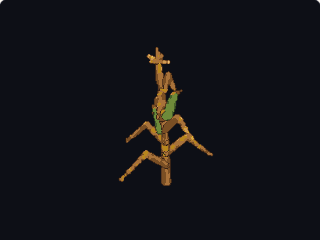
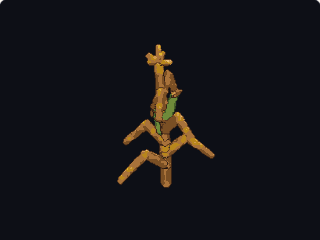
Cornucopia: wheat, corn leaves and tassels thick enough to hold together at Chunky detail
Claude-Session: https://claude.ai/code/session_018HstUiijLL6cWAsYPFyYF3

Changed region(s): [[0.3438, 0.175, 0.6875, 0.7875]]

diff --git a/src/blobscape/props/cornucopia.ts b/src/blobscape/props/cornucopia.ts
@@ -180,15 +180,15 @@ export const CORNUCOPIA: PropDoc = made('Cornucopia', [-0.5, 0, -0.12], 1.1, [
   { shape: { kind: 'sweep', path: loopAt(add(hornAt(4), [0, 0, 0]), 0.3, 12), r: 0.024 }, paint: '#7a4f24', noShadow: true },
   // wheat and corn standing up out of the top of the mouth
   {
-    shape: { kind: 'join', shapes: [[0.42, 1.2, -0.32], [0.55, 1.28, -0.15], [0.6, 1.25, 0.03], [0.5, 1.18, 0.16], [0.68, 1.1, -0.3]].map(([x, y, z]) => ({ kind: 'cone', from: [-0.02, 0.5, -0.12], to: [x, y, z], r: 0.026, rTo: 0.02 })) },
+    shape: { kind: 'join', shapes: [[0.42, 1.2, -0.32], [0.55, 1.28, -0.15], [0.6, 1.25, 0.03], [0.5, 1.18, 0.16], [0.68, 1.1, -0.3]].map(([x, y, z]) => ({ kind: 'cone', from: [-0.02, 0.5, -0.12], to: [x, y, z], r: 0.036, rTo: 0.03 })) },
     paint: '#e0b430', noShadow: true,
   },
   {
-    shape: { kind: 'join', shapes: [[0.42, 1.2, -0.32], [0.55, 1.28, -0.15], [0.6, 1.25, 0.03], [0.5, 1.18, 0.16], [0.68, 1.1, -0.3]].map(([x, y, z]) => ({ kind: 'ball', at: [x + 0.03, y + 0.05, z], r: [0.04, 0.07, 0.035] })) },
+    shape: { kind: 'join', shapes: [[0.42, 1.2, -0.32], [0.55, 1.28, -0.15], [0.6, 1.25, 0.03], [0.5, 1.18, 0.16], [0.68, 1.1, -0.3]].map(([x, y, z]) => ({ kind: 'ball', at: [x + 0.02, y + 0.05, z], r: [0.05, 0.08, 0.045] })) },
     paint: { kind: 'speckle', size: 0.02, colors: ['#e0b430', '#f6dc6a', '#b8861c'] }, noShadow: true,
   },
   { shape: { kind: 'cone', from: [0.08, 0.42, 0.08], to: [0.55, 0.9, 0.22], r: 0.055, rTo: 0.045 }, paint: { kind: 'speckle', size: 0.025, colors: ['#e0b430', '#f6dc6a', '#b8861c'] }, noShadow: true },
-  { shape: { kind: 'join', shapes: [{ kind: 'cone', from: [0.5, 0.86, 0.2], to: [0.72, 0.84, 0.36], r: 0.03, rTo: 0.008 }, { kind: 'cone', from: [0.5, 0.88, 0.21], to: [0.7, 1.02, 0.25], r: 0.03, rTo: 0.008 }] }, paint: '#9cb050', noShadow: true },
+  { shape: { kind: 'join', shapes: [{ kind: 'cone', from: [0.5, 0.86, 0.2], to: [0.72, 0.84, 0.36], r: 0.035, rTo: 0.022 }, { kind: 'cone', from: [0.5, 0.88, 0.21], to: [0.7, 1.02, 0.25], r: 0.035, rTo: 0.022 }] }, paint: '#9cb050', noShadow: true },
 ])
 
 // --- the harvest spilling out --------------------------------------------------------------------------------------
@@ -295,10 +295,10 @@ export const CORN_SHOCK: PropDoc = (() => {
     const c = Math.cos(a), s = Math.sin(a)
     const foot = 0.16 + (k % 3) * 0.025, tip = 0.1 + ((k * 5) % 4) * 0.03, up = top - ((k * 7) % 5) * 0.04
     const at = (r: number, y: number): Vec3 => [SHOCK_AT[0] + c * r, y, SHOCK_AT[2] + s * r]
-    stalks.push({ kind: 'sweep', path: [at(foot, 0), at(0.06, tie), at(tip, up)], r: 0.028, rTo: 0.016 })
+    stalks.push({ kind: 'sweep', path: [at(foot, 0), at(0.06, tie), at(tip, up)], r: 0.032, rTo: 0.024 })
     {
       const y = tie + 0.14 + (k % 4) * 0.06
-      leaves.push({ kind: 'cone', from: at(0.07, y), to: [SHOCK_AT[0] + Math.cos(a + 0.5) * 0.28, y - 0.12, SHOCK_AT[2] + Math.sin(a + 0.5) * 0.28], r: 0.026, rTo: 0.004 })
+      leaves.push({ kind: 'cone', from: at(0.07, y), to: [SHOCK_AT[0] + Math.cos(a + 0.5) * 0.28, y - 0.12, SHOCK_AT[2] + Math.sin(a + 0.5) * 0.28], r: 0.036, rTo: 0.022 })
     }
   }
   const tied = Array.from({ length: 15 }, (_, k): Vec3 => [SHOCK_AT[0] + Math.cos((k / 14) * 2 * Math.PI) * 0.07, tie, SHOCK_AT[2] + Math.sin((k / 14) * 2 * Math.PI) * 0.07])
@@ -325,25 +325,25 @@ function cornstalk(name: string, k: Stalk): PropDoc {
   for (let i = 0; i < 7; i++) {
     const t = 0.16 + i * 0.1, a = k.seed + i * 0.45 + (i % 2) * Math.PI, c = Math.cos(a), s = Math.sin(a)
     const from = up(t), reach = 0.44 - i * 0.035
-    leaves.push({ kind: 'sweep', path: [from, [from[0] + c * reach * 0.45, from[1] + 0.14, from[2] + s * reach * 0.45], [from[0] + c * reach, from[1] - 0.04, from[2] + s * reach]], r: 0.03, rTo: 0.008 })
+    leaves.push({ kind: 'sweep', path: [from, [from[0] + c * reach * 0.45, from[1] + 0.14, from[2] + s * reach * 0.45], [from[0] + c * reach, from[1] - 0.04, from[2] + s * reach]], r: 0.04, rTo: 0.022 })
   }
   const ears: PartDoc[] = []
   for (let e = 0; e < k.ears; e++) {
     const t = 0.45 + e * 0.13, a = k.seed + 1.3 + e * 2.4, c = Math.cos(a), s = Math.sin(a), from = up(t)
     const to: Vec3 = [from[0] + c * 0.09, from[1] + 0.17, from[2] + s * 0.09]
     ears.push({ shape: { kind: 'cone', from: [from[0] + c * 0.03, from[1], from[2] + s * 0.03], to, r: 0.045, rTo: 0.025 }, paint: { kind: 'faces', top: k.green[1], side: '#9cb050', under: '#46602a' }, bone: 'stalk', noShadow: true })
-    ears.push({ shape: { kind: 'cone', from: to, to: [to[0] + c * 0.05, to[1] + 0.04, to[2] + s * 0.05], r: 0.014, rTo: 0.005 }, paint: '#a8723a', bone: 'stalk', noShadow: true })
+    ears.push({ shape: { kind: 'cone', from: to, to: [to[0] + c * 0.05, to[1] + 0.04, to[2] + s * 0.05], r: 0.022, rTo: 0.014 }, paint: '#a8723a', bone: 'stalk', noShadow: true })
   }
   const top = up(1)
   const tassel = [0, 1, 2, 3, 4].map((i) => {
     const a = k.seed + i * 1.26
-    return { kind: 'cone' as const, from: top, to: [top[0] + Math.cos(a) * 0.09, top[1] + 0.06 - (i % 2) * 0.06, top[2] + Math.sin(a) * 0.09] as Vec3, r: 0.016, rTo: 0.006 }
+    return { kind: 'cone' as const, from: top, to: [top[0] + Math.cos(a) * 0.09, top[1] + 0.06 - (i % 2) * 0.06, top[2] + Math.sin(a) * 0.09] as Vec3, r: 0.024, rTo: 0.016 }
   })
   return made(name, k.at, k.tall + 0.1, [
-    { shape: { kind: 'sweep', path: [0, 0.25, 0.5, 0.75, 1].map(up), r: 0.034, rTo: 0.02 }, paint: { kind: 'bands', axis: 'y', size: 0.12, colors: [k.green[0], k.green[0], k.green[1]] }, bone: 'stalk' },
+    { shape: { kind: 'sweep', path: [0, 0.25, 0.5, 0.75, 1].map(up), r: 0.042, rTo: 0.03 }, paint: { kind: 'bands', axis: 'y', size: 0.12, colors: [k.green[0], k.green[0], k.green[1]] }, bone: 'stalk' },
     { shape: { kind: 'join', shapes: leaves }, paint: { kind: 'speckle', size: 0.04, colors: [k.green[0], k.green[1], k.green[0]] }, bone: 'stalk', noShadow: true },
     ...ears,
-    { shape: { kind: 'join', shapes: [...tassel, { kind: 'cone', from: top, to: [top[0], top[1] + 0.12, top[2]], r: 0.016, rTo: 0.006 }] }, paint: { kind: 'speckle', size: 0.02, colors: ['#e0b430', '#cf9a52', '#f6dc6a'] }, bone: 'stalk', noShadow: true },
+    { shape: { kind: 'join', shapes: [...tassel, { kind: 'cone', from: top, to: [top[0], top[1] + 0.12, top[2]], r: 0.024, rTo: 0.016 }] }, paint: { kind: 'speckle', size: 0.02, colors: ['#e0b430', '#cf9a52', '#f6dc6a'] }, bone: 'stalk', noShadow: true },
   ], {
     bones: [{ name: 'stalk', at: k.at }],
     moves: [{ kind: 'sway', bone: 'stalk', axis: 'z', degrees: 1.2, times: 3, phase: (k.seed % 1), wind: 6 }],

diff --git a/changes/harvest-cornucopia-scene.md b/changes/harvest-cornucopia-scene.md
@@ -1,1 +1,1 @@
-Diorama: a new scene, Harvest cornucopia: a giant woven horn heaped with produce and spilling pumpkins, squash, gourds, apples, pears and grapes onto an autumn green between two corn shocks, visited in turn by a squirrel, a cardinal and a fox. Its seven pieces join the Scene Creator library.
+Diorama: a new scene, Harvest cornucopia: a giant woven horn heaped with produce and spilling pumpkins, squash, gourds, apples, pears and grapes onto an autumn green among corn shocks and cornstalks, visited in turn by a squirrel, a cardinal and a fox. Its ten pieces join the Scene Creator library.
